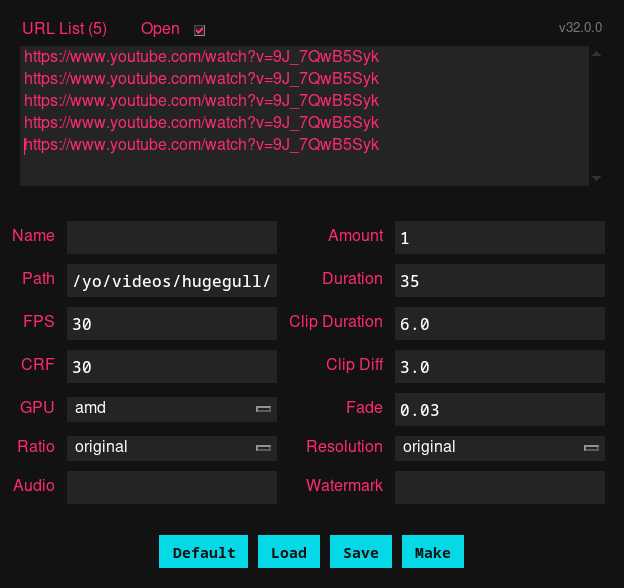
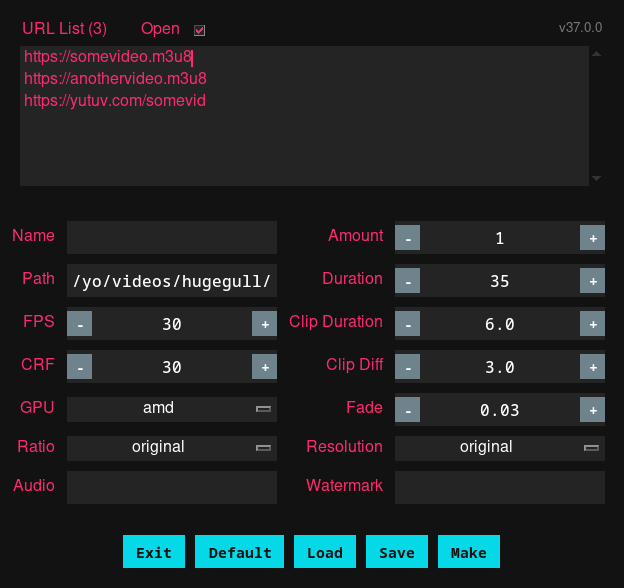
Mods

diff --git a/README.md b/README.md
@@ -113,3 +113,9 @@ hgg
 There is a graphical user interface that can be spawned with `--gui`.
 
 ![](gui.png)
+
+The GUI has some tricks like clicking "URL List" to paste urls.
+
+Middle clicking to restore defaults.
+
+Middle clicking the `-` and `+` buttons to dec or inc `0.5` instead of `1`.
